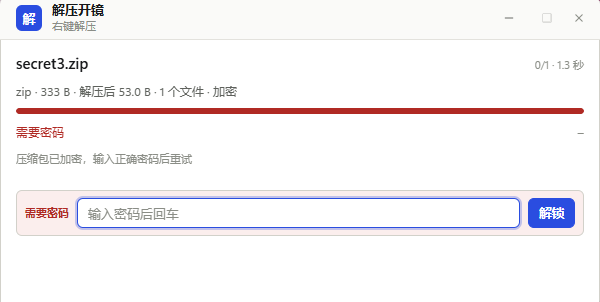
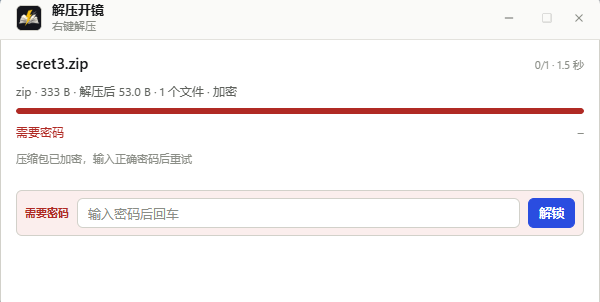
0.3.7：标题栏可拖动，品牌图标同步新应用图标

Changed region(s): [[0.12, 0.6258, 0.87, 0.7748], [0.0, 0.0, 0.18, 0.1192]]

diff --git a/crates/jieya-app/ui/style.css b/crates/jieya-app/ui/style.css
@@ -130,15 +130,12 @@ button { cursor: pointer; }
 
 .mark {
   width: 28px; height: 28px;
-  display: grid; place-items: center;
+  display: block;
+  object-fit: cover;
   border: 1px solid var(--line-strong);
   border-radius: 6px;
   background: var(--ink);
-  color: var(--panel);
-  font-size: 15px;
-  font-weight: 600;
 }
-html[data-theme="dark"] .mark { background: var(--panel-3); color: var(--ink); border-color: var(--line-strong); }
 
 .brand-text { display: flex; flex-direction: column; line-height: 1.25; }
 .brand-text strong { font-size: 14px; font-weight: 600; letter-spacing: 0.01em; }
@@ -706,14 +703,11 @@ body.quick .app {
 .quick-logo {
   width: 26px;
   height: 26px;
-  display: grid;
-  place-items: center;
+  display: block;
+  object-fit: cover;
+  border: 1px solid var(--line-strong);
   border-radius: 6px;
-  background: var(--accent);
-  color: #fff;
-  font-size: 13px;
-  font-weight: 700;
-  line-height: 1;
+  background: var(--ink);
 }
 
 .quick-brand strong {

diff --git a/crates/jieya-app/ui/app.js b/crates/jieya-app/ui/app.js
@@ -779,6 +779,19 @@ function initWindowControls() {
   syncWinMax();
 }
 
+function initWindowDrag() {
+  if (!window.__TAURI__) return;
+  const win = window.__TAURI__.webviewWindow.getCurrentWebviewWindow();
+  const interactive = (t) => t.closest("button, a, input, select, textarea, .menu-wrap, .win-controls");
+  document.querySelectorAll(".topbar, .quick-head").forEach((bar) => {
+    bar.addEventListener("pointerdown", (e) => {
+      if (e.button !== 0 || e.isPrimary === false) return;
+      if (interactive(e.target)) return;
+      win.startDragging().catch(() => {});
+    });
+  });
+}
+
 async function syncWinMax() {
   const max = await invoke("win_is_max").catch(() => false);
   document.querySelectorAll(".win-max use").forEach((u) => {
@@ -789,6 +802,7 @@ async function syncWinMax() {
 function initUi() {
   initTheme();
   initWindowControls();
+  initWindowDrag();
 
   $("#btn-files").onclick = () => pick(false);
   $("#btn-folder").onclick = () => pick(true);

diff --git a/crates/jieya-app/ui/index.html b/crates/jieya-app/ui/index.html
@@ -33,9 +33,9 @@
   </svg>
 
   <div class="app">
-    <header class="topbar" data-tauri-drag-region>
-      <div class="brand" data-tauri-drag-region>
-        <span class="mark">解</span>
+    <header class="topbar">
+      <div class="brand">
+        <img class="mark" src="mark.png" alt="" draggable="false" />
         <span class="brand-text">
           <strong>解压开镜</strong>
           <small>递归解压 · 自动试密</small>
@@ -244,9 +244,9 @@
   <div id="toast" class="toast hidden"></div>
 
   <section id="quick" class="quick hidden" aria-live="polite">
-    <header class="quick-head" data-tauri-drag-region>
-      <div class="quick-brand" data-tauri-drag-region>
-        <span class="quick-logo">解</span>
+    <header class="quick-head">
+      <div class="quick-brand">
+        <img class="quick-logo" src="mark.png" alt="" draggable="false" />
         <div>
           <strong>解压开镜</strong>
           <small>右键解压</small>
